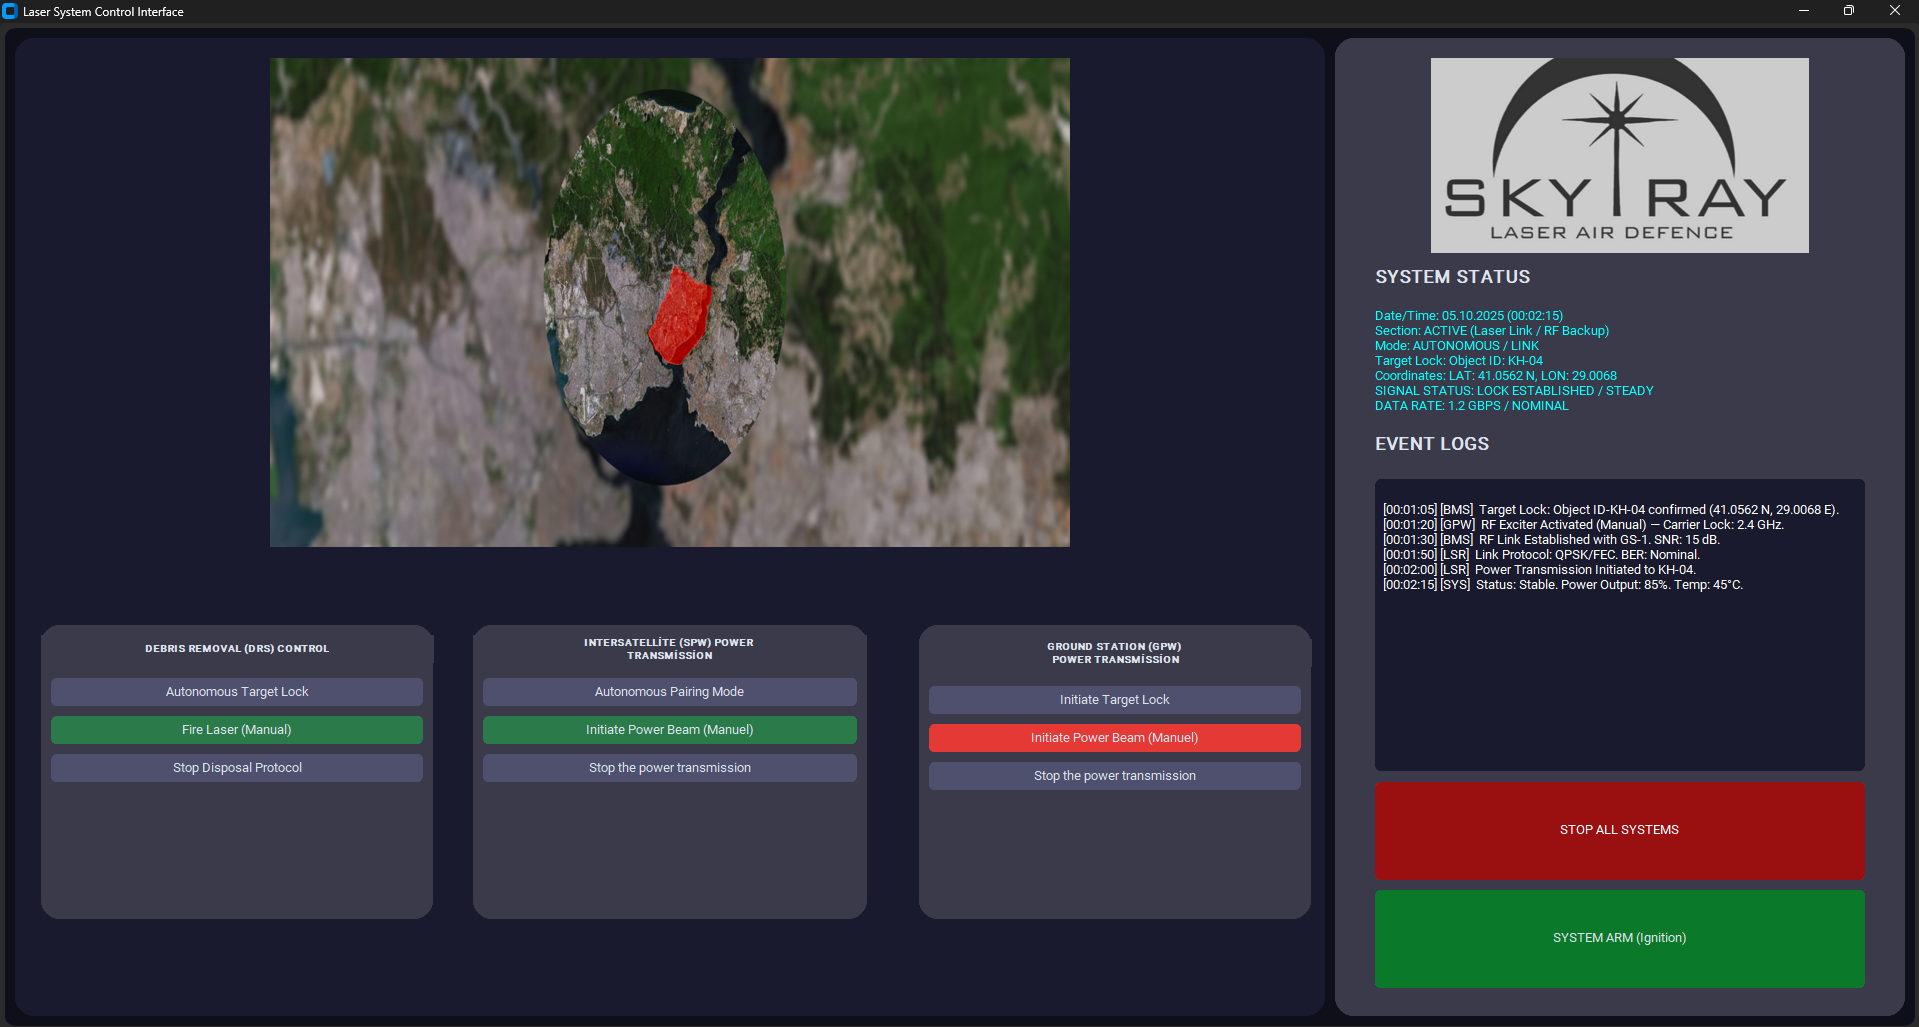
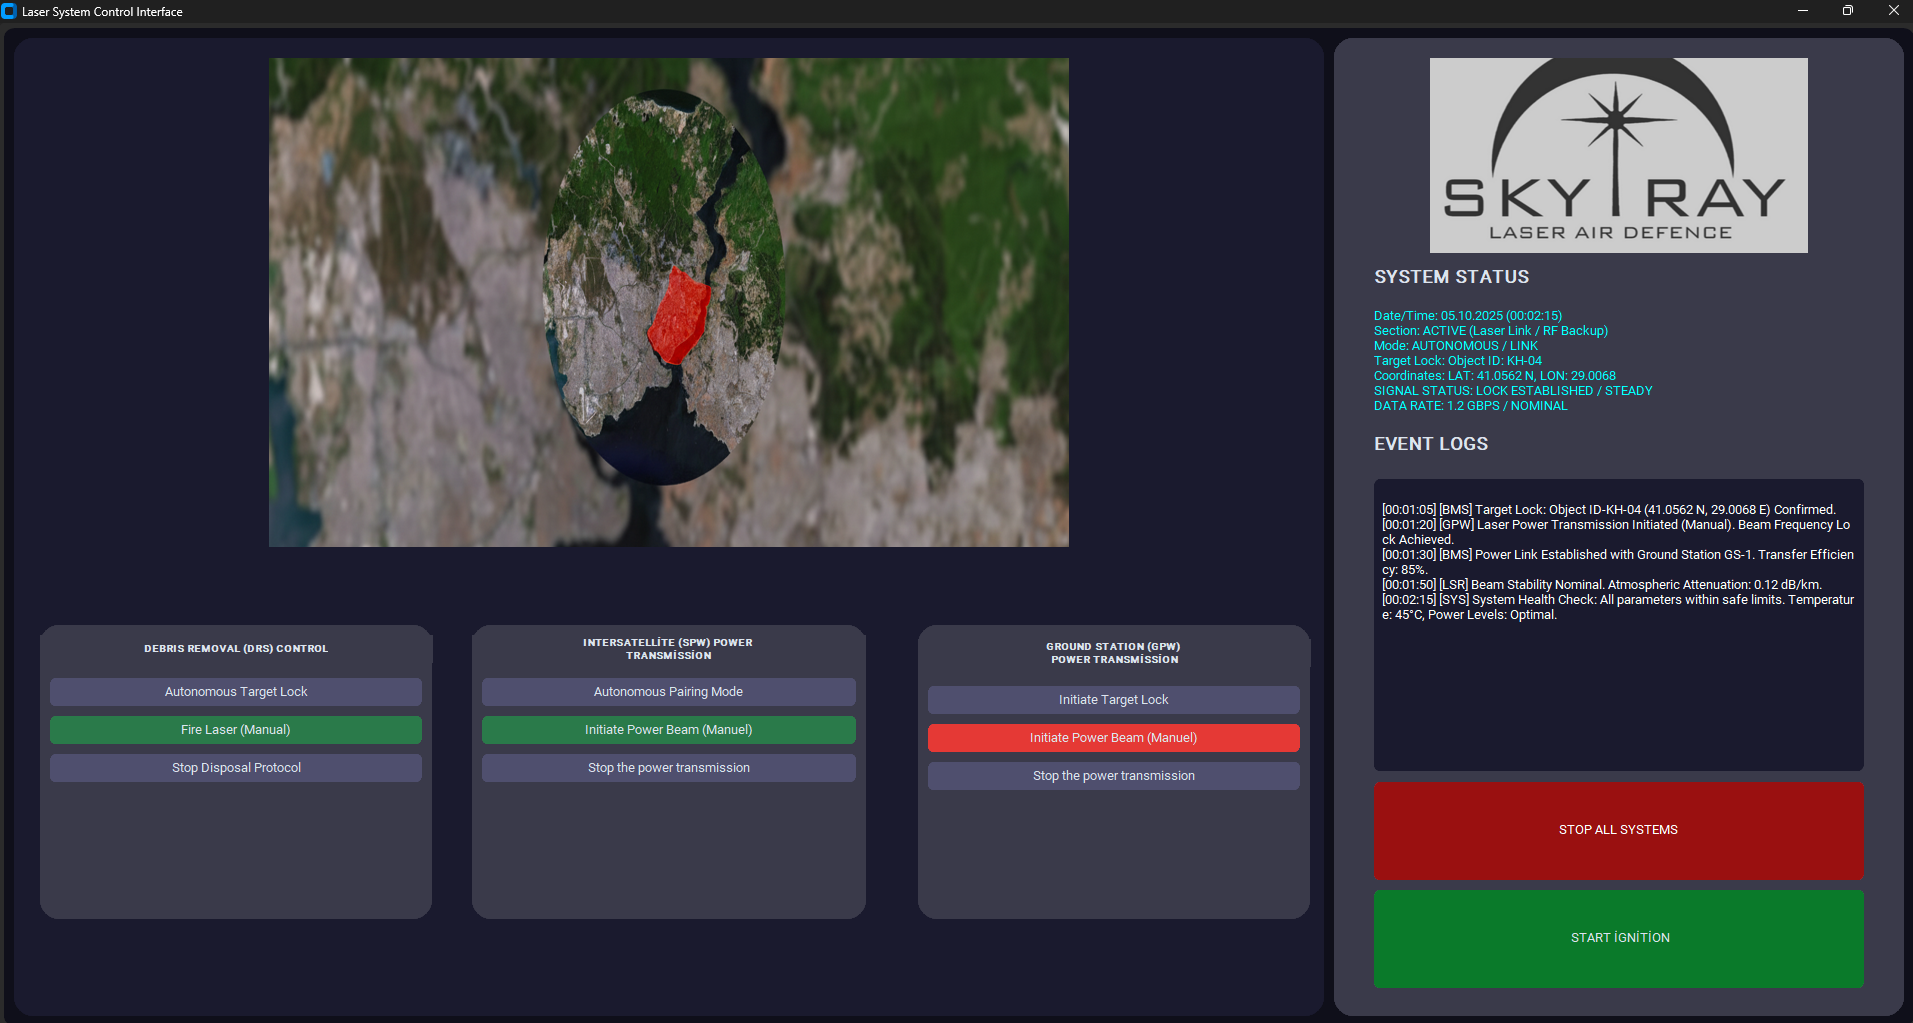
Readme.md

diff --git a/SkyRay Laser Interface/main.py b/SkyRay Laser Interface/main.py
@@ -63,25 +63,25 @@ class MainMenu(ctk.CTkFrame):
         # Status Label
         ctk.CTkLabel(right_frame, text="SYSTEM STATUS", font=ctk.CTkFont(weight="bold", size=18)).place(relx=0.07, rely=0.23)
         
-#         current_status_text = ctk.CTkLabel(right_frame, text="""
-# Date/Time: 01.07.2025 12:00
-# Connection: ACTIVE (Uplink/Downlink)
-# Mode: AUTONOMOUS FLIGHT
-# Target Lock: Object ID-42
-# Laser Status: READY / FIRING / COOLING
-# """, justify=ctk.LEFT, text_color="#00ffff")
-#         current_status_text.place(relx=0.07, rely=0.26)
-
-        current_status_text2 = ctk.CTkLabel(right_frame, text="""
-Date/Time: 05.10.2025 (00:02:15)
-Section: ACTIVE (Laser Link / RF Backup)
-Mode: AUTONOMOUS / LINK
-Target Lock: Object ID: KH-04
-Coordinates: LAT: 41.0562 N, LON: 29.0068
-SIGNAL STATUS: LOCK ESTABLISHED / STEADY
-DATA RATE: 1.2 GBPS / NOMINAL
+        current_status_text = ctk.CTkLabel(right_frame, text="""
+Date/Time: 01.07.2025 12:00
+Connection: ACTIVE (Uplink/Downlink)
+Mode: AUTONOMOUS FLIGHT
+Target Lock: Object ID-42
+Laser Status: READY / FIRING / COOLING
 """, justify=ctk.LEFT, text_color="#00ffff")
-        current_status_text2.place(relx=0.07, rely=0.26)
+        current_status_text.place(relx=0.07, rely=0.26)
+
+#         current_status_text2 = ctk.CTkLabel(right_frame, text="""
+# Date/Time: 05.10.2025 (00:02:15)
+# Section: ACTIVE (Laser Link / RF Backup)
+# Mode: AUTONOMOUS / LINK
+# Target Lock: Object ID: KH-04
+# Coordinates: LAT: 41.0562 N, LON: 29.0068
+# SIGNAL STATUS: LOCK ESTABLISHED / STEADY
+# DATA RATE: 1.2 GBPS / NOMINAL
+# """, justify=ctk.LEFT, text_color="#00ffff")
+        # current_status_text2.place(relx=0.07, rely=0.26)
 
 
         # Event Log Header
@@ -105,14 +105,14 @@ DATA RATE: 1.2 GBPS / NOMINAL
 [12:08:30] [SYS] All systems operating within safe parameters
 """
         log_text2 = """
-[00:01:05] [BMS]  Target Lock: Object ID-KH-04 confirmed (41.0562 N, 29.0068 E).  
-[00:01:20] [GPW]  RF Exciter Activated (Manual) — Carrier Lock: 2.4 GHz.  
-[00:01:30] [BMS]  RF Link Established with GS-1. SNR: 15 dB.  
-[00:01:50] [LSR]  Link Protocol: QPSK/FEC. BER: Nominal.  
-[00:02:00] [LSR]  Power Transmission Initiated to KH-04.  
-[00:02:15] [SYS]  Status: Stable. Power Output: 85%. Temp: 45°C. 
+[00:01:05] [BMS] Target Lock: Object ID-KH-04 (41.0562 N, 29.0068 E) Confirmed.  
+[00:01:20] [GPW] Laser Power Transmission Initiated (Manual). Beam Frequency Lock Achieved.  
+[00:01:30] [BMS] Power Link Established with Ground Station GS-1. Transfer Efficiency: 85%.  
+[00:01:50] [LSR] Beam Stability Nominal. Atmospheric Attenuation: 0.12 dB/km.  
+[00:02:15] [SYS] System Health Check: All parameters within safe limits. Temperature: 45°C, Power Levels: Optimal.  
+
  """
-        info_textbox.insert("0.0", log_text2)
+        info_textbox.insert("0.0", log_text)
         info_textbox.configure(state="disabled")
 
         # --- RIGHT PANEL CONTROL BUTTONS ---
@@ -122,7 +122,7 @@ DATA RATE: 1.2 GBPS / NOMINAL
                                  text_color="white")
         button_stop.place(relx=0.07, rely=0.76, relheight=0.1, relwidth=0.86,)
 
-        button_ignition = ctk.CTkButton(right_frame, text="SYSTEM ARM (Ignition)",
+        button_ignition = ctk.CTkButton(right_frame, text=" START İGNİTİON",
                                  fg_color="#0a7a2a", 
                                  hover_color="#0a9a10")
         button_ignition.place(relx=0.07, rely=0.87, relheight=0.1, relwidth = 0.86,)
@@ -133,7 +133,7 @@ DATA RATE: 1.2 GBPS / NOMINAL
         try:
             # Image loading
             base_path = os.path.dirname(__file__)
-            pil_image = Image.open(os.path.join(base_path, "docs", "istanbul-satellite.png"))
+            pil_image = Image.open(os.path.join(base_path, "docs", "satellite.png"))
         #     pil_image = Image.open("docs/istanbul-satellite.png") # Update image path
             ctk_image = CTkImage(light_image=pil_image, size=(800, 700))
             image_label = ctk.CTkLabel(left_frame, image=ctk_image, text="")
@@ -157,7 +157,7 @@ DATA RATE: 1.2 GBPS / NOMINAL
         
         # Buttons
         ctk.CTkButton(debris_removal_frame, text="Autonomous Target Lock", fg_color="#4f4f6e").grid(row=1, column=0, padx=10, pady=5, sticky="ew")
-        ctk.CTkButton(debris_removal_frame, text="Fire Laser (Manual)", fg_color="#2a7a4a").grid(row=2, column=0, padx=10, pady=5, sticky="ew")
+        ctk.CTkButton(debris_removal_frame, text="Fire Laser (Manual)", fg_color="#e53935").grid(row=2, column=0, padx=10, pady=5, sticky="ew")
         ctk.CTkButton(debris_removal_frame, text="Stop Disposal Protocol", fg_color="#4f4f6e").grid(row=3, column=0, padx=10, pady=5, sticky="ew")
         
         # ------------------------------------------------------------------
@@ -191,7 +191,7 @@ DATA RATE: 1.2 GBPS / NOMINAL
 
         # Buttons
         ctk.CTkButton(ground_station_power_frame, text="Initiate Target Lock", fg_color="#4f4f6e").grid(row=1, column=0, padx=10, pady=5, sticky="ew")
-        ctk.CTkButton(ground_station_power_frame, text="Initiate Power Beam (Manuel)", fg_color="#e53935").grid(row=2, column=0, padx=10, pady=5, sticky="ew")
+        ctk.CTkButton(ground_station_power_frame, text="Initiate Power Beam (Manuel)", fg_color="#2a7a4a").grid(row=2, column=0, padx=10, pady=5, sticky="ew")
         ctk.CTkButton(ground_station_power_frame, text="Stop the power transmission", fg_color="#4f4f6e").grid(row=3, column=0, padx=10, pady=5, sticky="ew")
 
     

diff --git a/README.md b/README.md
@@ -22,7 +22,7 @@ This repository contains a few top-level folders used by the projec:
 - `SkyRay İmage Processing` — image processing and pipelines (label conversion, training helpers).  
 - `SkyRay İmages` — example / dataset images and assets.  
 
-**Logo file:** `SkyRay Laser Interface/docs/logo.png` — used in the README header. :contentReference[oaicite:2]{index=2}
+
 
 ---
 
